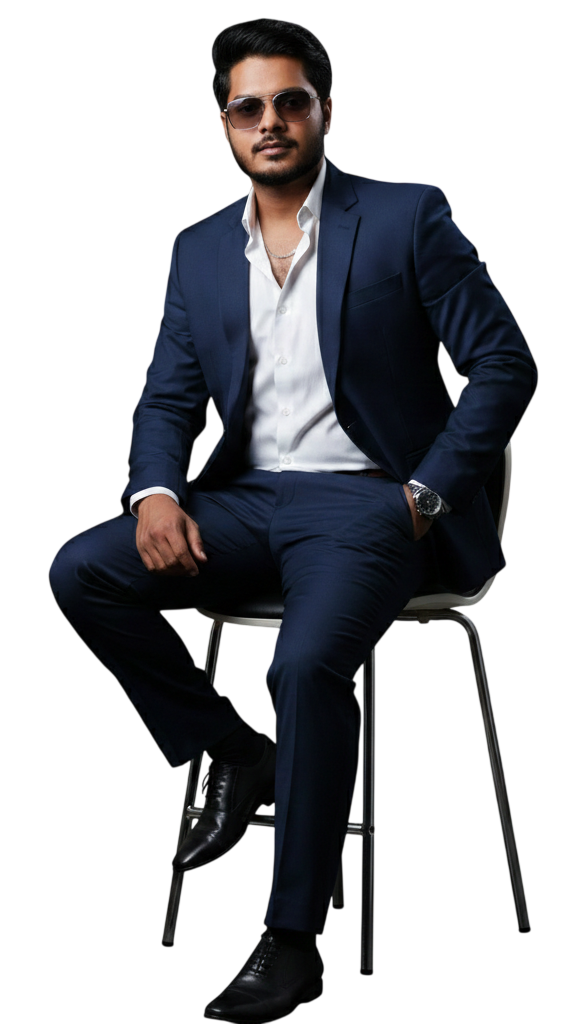
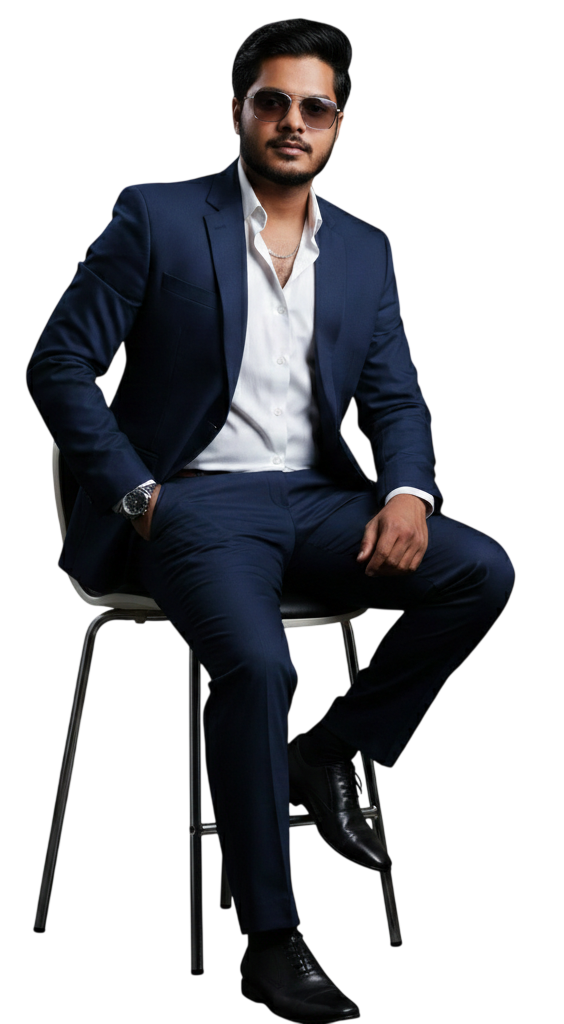
img update

diff --git a/src/components/About/About.jsx b/src/components/About/About.jsx
@@ -1,5 +1,5 @@
 import './About.css'
-import amitImage from '../../assets/img/x.png';
+import amitImage from '../../assets/img/y.png';
 
 
 function About() {
@@ -37,8 +37,8 @@ function About() {
                 <p className="stat-label">Projects Participation</p>
               </div>
               <div className="stat-item">
-                <h3 className="stat-number">7+</h3>
-                <p className="stat-label">Month Fresher Experince</p>
+                <h3 className="stat-number">1+</h3>
+                <p className="stat-label">Year Fresher Experince</p>
               </div>
               <div className="stat-item">
                 <h3 className="stat-number">100%</h3>

diff --git a/src/components/About/About.css b/src/components/About/About.css
@@ -19,10 +19,10 @@
 }
 
 .about-image {
-  width: 554px;
-  margin-left: -100px;
+  width: 294px;
+  margin-left: 0px;
   margin-top: -100px;
-  height: 535px;
+  height: 450px;
   border-radius: 20px;
  
 }
@@ -146,10 +146,10 @@
 
 @media (max-width: 480px) {
   .about-image {
-    max-width: 350px;
-    height: 350px;
-    margin-left: -40px;
-    margin-top: -70px; }
+    max-width: 250px;
+    height: 400px;
+    margin-left: 0px;
+    margin-top: 0px; }
 
   .about-description {
     font-size: 0.9rem;

diff --git a/src/components/Home/Home.jsx b/src/components/Home/Home.jsx
@@ -1,5 +1,5 @@
 import './Home.css'
-import amitImage from '../../assets/img/y.png';
+import amitImage from '../../assets/img/b.png';
 import resumePDF from '../../assets/pdf/Amit Pandey Resume .pdf';
 
 

diff --git a/src/components/Home/Home.css b/src/components/Home/Home.css
@@ -191,7 +191,7 @@
 
 .home-image {
   width: 100%;
-  max-width: 350px;
+  max-width: 450px;
   height: 600px;
   border-radius: 20px;
   /* box-shadow: 0 20px 60px rgba(100, 108, 255, 0.3); */
